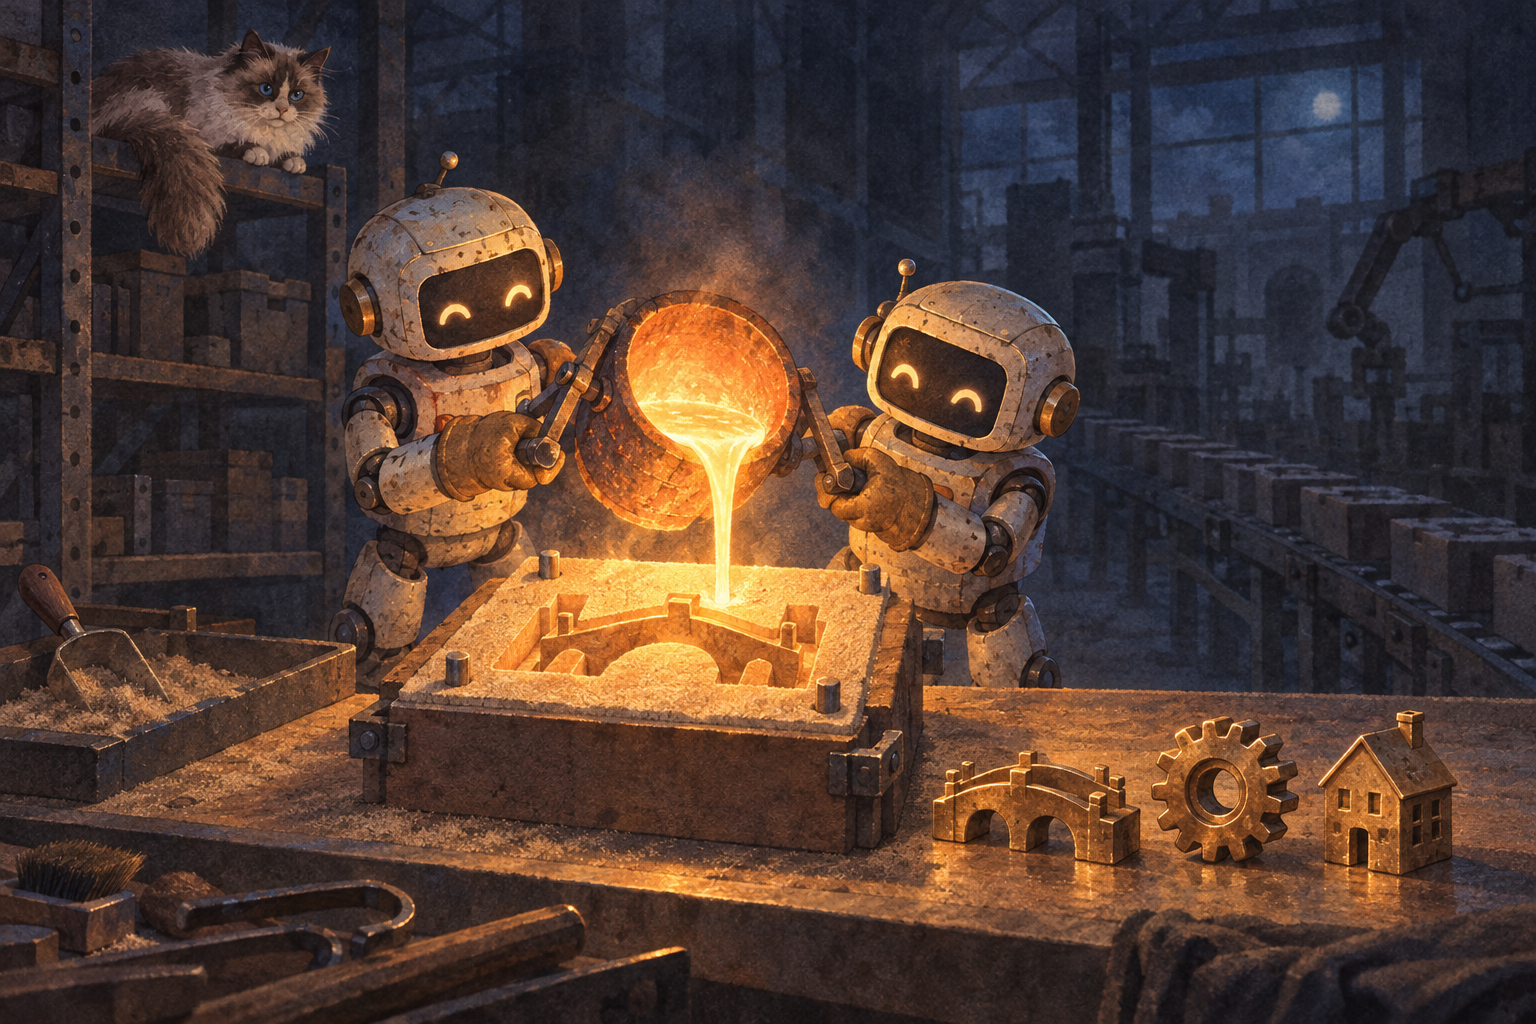
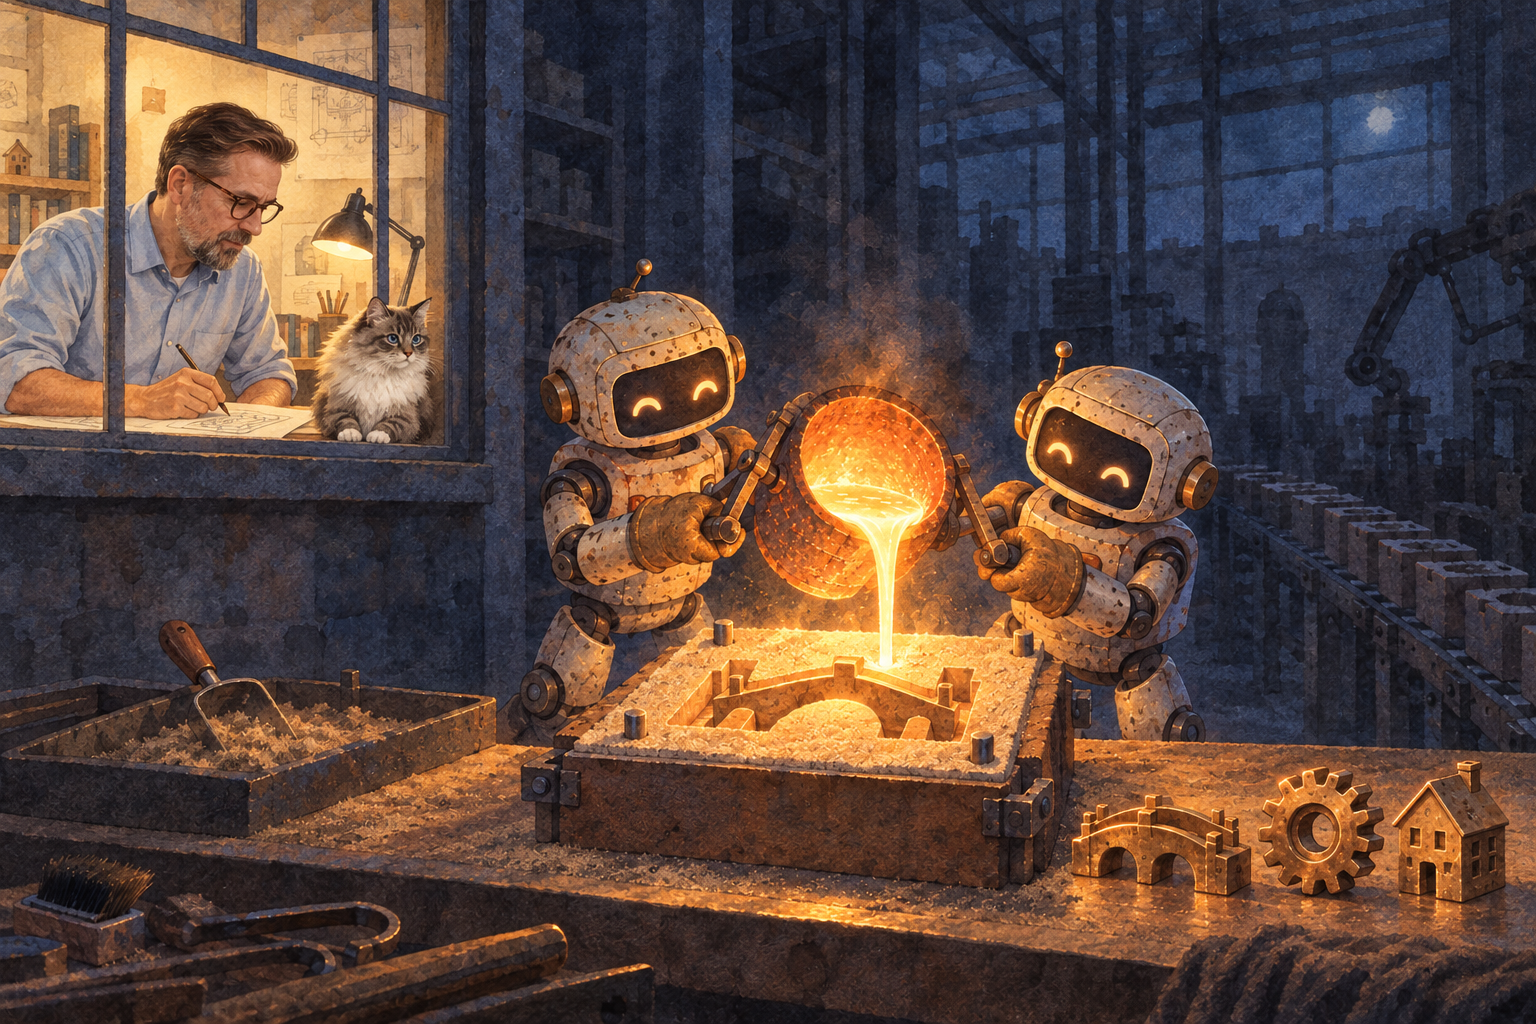
feat(blog): use hero image with Ralf in the drafting room for Agentic Foundry

diff --git a/pages/blog/agentic-foundry.html b/pages/blog/agentic-foundry.html
@@ -72,7 +72,7 @@
             </header>
 
             <figure class="article-hero">
-                <img src="../../images/blog/linkedin/agentic-foundry.png" alt="Watercolour illustration: two small robots pour glowing molten metal from a crucible into an open sand mould on a workbench, finished castings of different shapes stand beside it, a dark factory hall with the lights off fades into the background, a Ragdoll cat watches from a high shelf">
+                <img src="../../images/blog/linkedin/agentic-foundry.png" alt="Watercolour illustration: two small robots pour glowing molten metal from a crucible into an open sand mould on a workbench, finished castings of different shapes stand beside it, a dark factory hall with the lights off fades into the background. Behind a window on the left, Ralf sits in a lit drafting room drawing the next mould, a Ragdoll cat beside him on the sill">
             </figure>
 
             <div class="article-content">
